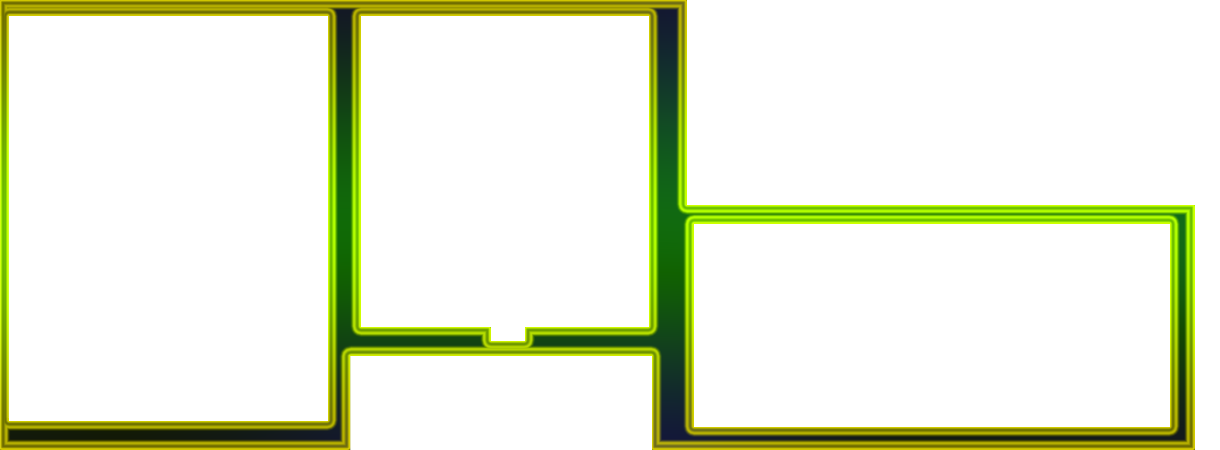
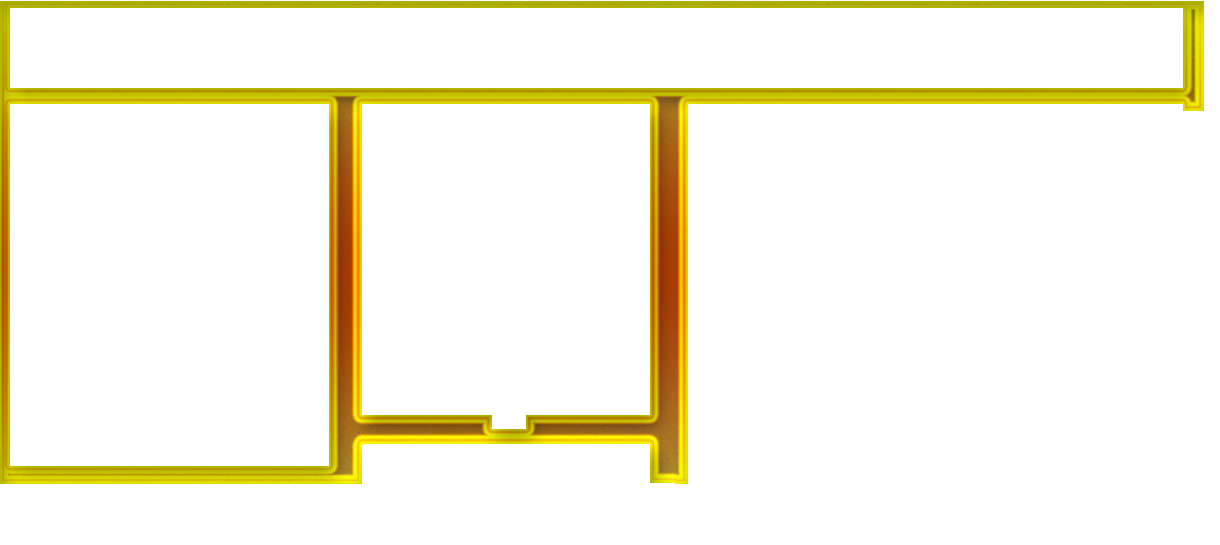
Mejora de maquetación pantalla Juegos / Consolas. DeCommit en honor a Ignacior.

Changed region(s): [[0.0, 0.0, 0.9967, 1.0]]

diff --git a/ProyectoInicial/src/vista/PantallaJuegos.java b/ProyectoInicial/src/vista/PantallaJuegos.java
@@ -41,12 +41,10 @@ public class PantallaJuegos extends JPanel {
 		setLayout(null);
 		control=m;
 		
-		
 		Image bordeJuegos = new ImageIcon(this.getClass().getResource("/BordeJuegos.png")).getImage();
 
-		
 		JLayeredPane layeredPane = new JLayeredPane();
-		layeredPane.setBounds(95, 50, 1195, 80);
+		layeredPane.setBounds(95, 50, 1185, 80);
 		layeredPane.setBorder(new EtchedBorder(EtchedBorder.LOWERED, null, null));
 		add(layeredPane);
 		layeredPane.setLayout(null);
@@ -122,19 +120,19 @@ public class PantallaJuegos extends JPanel {
 		
 		JButton btnBuscar = new JButton("Buscar");
 		btnBuscar.addActionListener(new ActionListener() {
-		public void actionPerformed(ActionEvent arg0) {
-		boolean nombre=false;
-		boolean genero=false;
-		boolean consola=false;
-		if(nombreField.getText().length()>0){
-			nombre=true;
-		}
-		if(comboBoxGen.getSelectedItem().toString().equals("")==false){
-			genero=true;
-		}
-		if(comboBoxPlat.getSelectedItem().toString().equals("")==false){
-			consola=true;
-		}
+		    public void actionPerformed(ActionEvent arg0) {
+			  	boolean nombre=false;
+			  	boolean genero=false;
+			  	boolean consola=false;
+			  	if(nombreField.getText().length()>0){
+			  		nombre=true;
+			  	}
+			  	if(comboBoxGen.getSelectedItem().toString().equals("")==false){
+			  		genero=true;
+			  	}
+			  	if(comboBoxPlat.getSelectedItem().toString().equals("")==false){
+			  		consola=true;
+			  	}
 		
 			String datosDevueltos[]=control.filtroGeneral(nombre, nombreField.getText(), genero, String.valueOf(comboBoxGen.getSelectedIndex()), consola, String.valueOf(comboBoxPlat.getSelectedIndex()), multi, multijugador);
 			if(datosDevueltos.length!=0){
@@ -151,7 +149,7 @@ public class PantallaJuegos extends JPanel {
 		btnBuscar.setBorderPainted(false);
 		btnBuscar.setOpaque(false);
 		btnBuscar.setFont(new Font("Bell MT", Font.BOLD, 20));
-		btnBuscar.setBounds(15, 15, 102, 23);
+		btnBuscar.setBounds(15, 15, 100, 25);
 		layeredPane.add(btnBuscar);
 		
 		JButton btnReset = new JButton("Reset");
@@ -165,18 +163,14 @@ public class PantallaJuegos extends JPanel {
 				nombreField.setText("");
 			}
 		});
-		btnReset.setBounds(25, 49, 89, 23);
+		btnReset.setBounds(25, 49, 90, 25);
 		layeredPane.add(btnReset);
 
 		//IMAGEN DE FONDO
 		Image iFondo = new ImageIcon(this.getClass().getResource("/Fondo.png")).getImage();
-		JLabel lblBordeJuegos = new JLabel();
-		lblBordeJuegos.setBounds(85, 130, 1232, 450);
-		lblBordeJuegos.setIcon(new ImageIcon(bordeJuegos));
-		this.add(lblBordeJuegos);
 		
 		JPanel panelJuegos = new JPanel();
-		panelJuegos.setBounds(435, 131, 855, 425);
+		panelJuegos.setBounds(435, 130, 855, 425);
 		panelJuegos.setForeground(Color.WHITE);
 		panelJuegos.setBorder(null);
 		panelJuegos.setOpaque(false);
@@ -192,13 +186,13 @@ public class PantallaJuegos extends JPanel {
 		JLabel lblSinopsis = new JLabel("Sinopsis:");
 		lblSinopsis.setForeground(Color.WHITE);
 		lblSinopsis.setFont(new Font("BatangChe", Font.PLAIN, 18));
-		lblSinopsis.setBounds(345, 180, 90, 25);
+		lblSinopsis.setBounds(345, 170, 90, 25);
 		panelJuegos.add(lblSinopsis);
 		
 		JLabel lblPlataforma = new JLabel("Plataforma:");
 		lblPlataforma.setForeground(Color.WHITE);
 		lblPlataforma.setFont(new Font("BatangChe", Font.PLAIN, 18));
-		lblPlataforma.setBounds(345, 55, 100, 25);
+		lblPlataforma.setBounds(345, 55, 110, 25);
 		panelJuegos.add(lblPlataforma);
 		
 		JLabel lblGenero = new JLabel("G\u00E9nero:");
@@ -293,6 +287,7 @@ public class PantallaJuegos extends JPanel {
 		add(scrollPane);
 		
 		list = new JList();
+		list.setBorder(null);
 		list.setSelectionMode(ListSelectionModel.SINGLE_SELECTION);
 		list.addListSelectionListener(new ListSelectionListener() {
 			public void valueChanged(ListSelectionEvent arg0) {
@@ -323,6 +318,10 @@ public class PantallaJuegos extends JPanel {
 		imgFondo.setIcon(new ImageIcon(iFondo));
 		list.setListData(control.getApiJuegos().getNombreDatos());
 		this.add(imgFondo);
+		JLabel lblBordeJuegos = new JLabel();
+		lblBordeJuegos.setBounds(90, 50, 1230, 540);
+		lblBordeJuegos.setIcon(new ImageIcon(bordeJuegos));
+		this.add(lblBordeJuegos);
 
 	}
 }

diff --git a/ProyectoInicial/src/vista/PantallaConsolas.java b/ProyectoInicial/src/vista/PantallaConsolas.java
@@ -30,15 +30,16 @@ public class PantallaConsolas extends JPanel {
 	private ManejoApis control;
 	private JComboBox comboBoxEmp;
 	private JList list;
+	
+	
 	public PantallaConsolas(ManejoApis c) {
-		control = c;
-		
 		setBounds(0, 0, 1355, 591);
 		setLayout(null);
+		control = c;
 		
 
 		JLayeredPane layeredPane = new JLayeredPane();
-		layeredPane.setBounds(96, 52, 1196, 80);
+		layeredPane.setBounds(95, 50, 1185, 80);
 		layeredPane.setBorder(new EtchedBorder(EtchedBorder.LOWERED, null, null));
 		add(layeredPane);
 		layeredPane.setLayout(null);
@@ -64,7 +65,7 @@ public class PantallaConsolas extends JPanel {
 		btnBuscar.setBorderPainted(false);
 		btnBuscar.setOpaque(false);
 		btnBuscar.setFont(new Font("Bell MT", Font.BOLD, 20));
-		btnBuscar.setBounds(15, 15, 102, 23);
+		btnBuscar.setBounds(15, 15, 100, 25);
 		layeredPane.add(btnBuscar);
 		
 		nombreField = new JTextField();
@@ -116,7 +117,7 @@ public class PantallaConsolas extends JPanel {
 		JLabel lblSinopsis = new JLabel("Especificaciones:");
 		lblSinopsis.setForeground(Color.WHITE);
 		lblSinopsis.setFont(new Font("BatangChe", Font.PLAIN, 18));
-		lblSinopsis.setBounds(345, 170, 163, 25);
+		lblSinopsis.setBounds(345, 170, 165, 25);
 		panelJuegos.add(lblSinopsis);
 		
 		JLabel lblPlataforma = new JLabel("Fecha Salida:");
@@ -145,7 +146,7 @@ public class PantallaConsolas extends JPanel {
 		JLabel lblJuegoPlat = new JLabel();
 		lblJuegoPlat.setForeground(Color.WHITE);
 		lblJuegoPlat.setFont(new Font("BatangChe", Font.PLAIN, 18));
-		lblJuegoPlat.setBounds(463, 55, 352, 25);
+		lblJuegoPlat.setBounds(465, 55, 350, 25);
 		panelJuegos.add(lblJuegoPlat);
 		
 		JLabel lblJuegoEmp = new JLabel();
@@ -178,7 +179,7 @@ public class PantallaConsolas extends JPanel {
 		
 		JScrollPane scrollPane = new JScrollPane();
 		scrollPane.setOpaque(false);
-		scrollPane.setBounds(106, 143, 330, 410);
+		scrollPane.setBounds(95, 145, 330, 410);
 		scrollPane.setViewportBorder(new EtchedBorder(EtchedBorder.LOWERED, null, null));
 		scrollPane.getViewport().setOpaque(false);
 		add(scrollPane);
